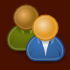
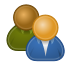
Change of the game navigation panel scheme - change of images. Images for the login screen replaced with ones supporting alpha transparency.

diff --git a/classes/info_bar.py b/classes/info_bar.py
@@ -13,16 +13,17 @@ class BaseButton(pygame.sprite.Sprite):
         self.width = width
         self.height = height
         self.pos = [pos_x, pos_y]
+        self.panel = panel
+        self.color = self.panel.bg_color
+
         if self.panel.mainloop.scheme is not None:
             if self.panel.mainloop.scheme.dark:
-                self.color = (40, 40, 40)
                 self.scheme_dir = "black"
             else:
-                self.color = (40, 40, 40)
                 self.scheme_dir = "black"
         else:
-            self.color = (40, 40, 40)
             self.scheme_dir = "black"
+
 
         self.update_size(width, height)
 
@@ -45,7 +46,7 @@ class BaseButton(pygame.sprite.Sprite):
             self.font4 = self.panel.fonts[3]
 
     def update_size(self, width, height):
-        self.image = pygame.Surface([width, height])
+        self.image = pygame.Surface([width, height], flags=pygame.SRCALPHA)
         self.image.fill(self.color)
         self.rect = self.image.get_rect()
         self.rect.topleft = self.pos
@@ -63,13 +64,10 @@ class Button(BaseButton):
     def load_images(self, rev):
         self.img_pos = (0, 0)
         try:
-            self.img_1 = pygame.image.load(
-                os.path.join('res', 'images', "schemes", self.scheme_dir, self.img_src_1)).convert()
-            self.img_2 = pygame.image.load(
-                os.path.join('res', 'images', "schemes", self.scheme_dir, self.img_src_2)).convert()
+            self.img_1 = pygame.image.load(os.path.join('res', 'images', "info_bar", self.img_src_1)).convert_alpha()
+            self.img_2 = pygame.image.load(os.path.join('res', 'images', "info_bar", self.img_src_2)).convert_alpha()
             if self.img_src_3 != "":
-                self.img_3 = pygame.image.load(
-                    os.path.join('res', 'images', "schemes", self.scheme_dir, self.img_src_3)).convert()
+                self.img_3 = pygame.image.load(os.path.join('res', 'images', "info_bar", self.img_src_3)).convert_alpha()
             if rev:
                 self.img_1 = pygame.transform.flip(self.img_1, 1, 0)
                 self.img_2 = pygame.transform.flip(self.img_2, 1, 0)
@@ -147,26 +145,26 @@ class InfoBar():
         # orange
         # self.font_color = (255,75,0,0)
         # self.font_color1 = (255,220,0,0)
-        self.font_color = (255, 125, 0, 0)
-        self.font_color1 = (255, 220, 0, 0)
-        self.font_color4 = (125, 125, 125, 0)
+        self.font_color = (255, 75, 0, 0)
+        self.font_color1 = (255, 125, 0, 0)
+        self.font_color4 = (255, 175, 0, 0)
 
-        self.font_color2 = (255, 75, 0, 0)
-        self.font_color3 = (255, 220, 0, 0)
+        self.font_color2 = (225, 75, 0, 0)
+        self.font_color3 = (255, 175, 0, 0)
 
         if self.mainloop.scheme is not None:
             if self.mainloop.scheme.dark:
-                self.font_color = self.mainloop.scheme.info_font_color0
-                self.font_color1 = self.mainloop.scheme.info_font_color1
+                self.bg_color = (40, 40, 40)
 
-                self.font_color2 = self.mainloop.scheme.info_font_color2
-                self.font_color3 = self.mainloop.scheme.info_font_color3
             else:
-                self.font_color = (255, 255, 255, 0)
-                self.font_color1 = (220, 220, 220, 0)
+                self.bg_color = (255, 255, 255)
+            self.font_color = self.mainloop.scheme.info_font_color0
+            self.font_color1 = self.mainloop.scheme.info_font_color1
 
-                self.font_color2 = (255, 255, 255, 0)
-                self.font_color3 = (150, 150, 150, 0)
+            self.font_color2 = self.mainloop.scheme.info_font_color2
+            self.font_color3 = self.mainloop.scheme.info_font_color3
+        else:
+            self.bg_color = (255, 255, 255)
 
         self.hidden = False
         self.close_dialog = False
@@ -589,8 +587,9 @@ class InfoBar():
                 (255, 255, 255), (255, 255, 255), (0, 0, 0), (0, 0, 0), (0, 0, 0), (0, 0, 0), (0, 0, 0), (0, 0, 0),
                 (0, 0, 0), (0, 0, 0), (0, 0, 0), (0, 0, 0))
                 hs = 80
-        color = (40, 40, 40)
-        screen.fill(color)
+        #color = (40, 40, 40)
+        #color = self.def_bg_col
+        screen.fill(self.bg_color)
         # colors = ((250,250,250),(233,233,233),(192,192,192),(141,141,141),(137,137,137))#,(255,255,255),(240,223,238),(133,0,116),(148,31,133))
         # colors = ((250,250,250),(233,233,233),(233,233,233),(192,192,192),(192,192,192),(141,141,141),(141,141,141),(137,137,137),(137,137,137))#,(255,255,255),(240,223,238),(133,0,116),(148,31,133))
 
